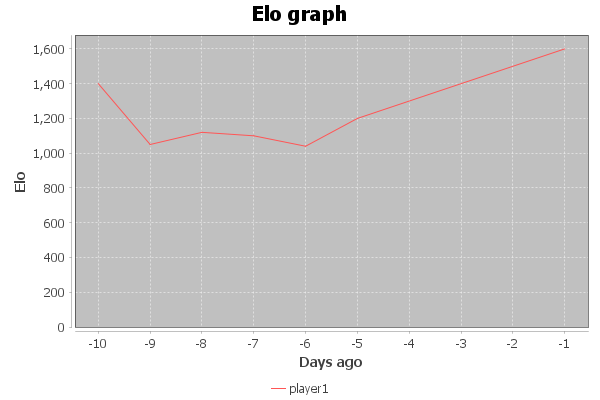
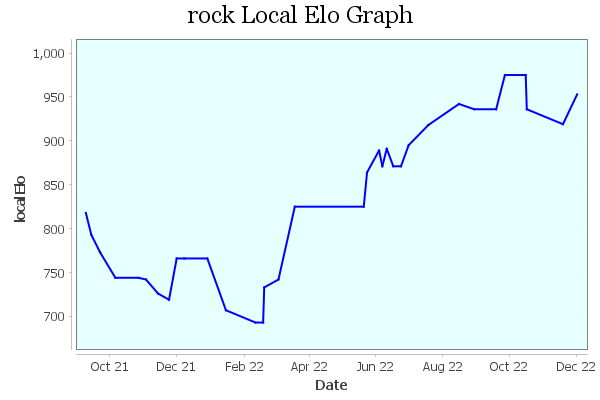
working on player graphs

diff --git a/ELOdatabase/src/main/java/PlayerInfo.java b/ELOdatabase/src/main/java/PlayerInfo.java
@@ -1,59 +1,139 @@
 import java.awt.Dimension;
+import java.awt.Font;
 import java.awt.Graphics2D;
 import java.awt.image.BufferedImage;
-import org.jfree.chart.JFreeChart; 
+import org.jfree.chart.JFreeChart;
+import org.jfree.chart.axis.DateAxis;
+import org.jfree.chart.axis.ValueAxis;
 import org.jfree.chart.ChartFactory;
 import org.jfree.chart.ChartPanel;
 import org.jfree.chart.ChartUtils;
+
 import org.jfree.chart.plot.PlotOrientation;
+import org.jfree.chart.plot.XYPlot;
+import org.jfree.chart.ui.RectangleInsets;
 import org.jfree.data.category.DefaultCategoryDataset;
 import org.jfree.data.xy.XYDataset;
 import org.jfree.data.xy.XYSeries;
 import org.jfree.data.xy.XYSeriesCollection;
+import org.jfree.data.time.*;
+import org.jfree.data.time.RegularTimePeriod;
+import org.jfree.data.time.TimeSeries;
+import org.jfree.data.time.TimeSeriesCollection;
 
+import com.google.gson.JsonArray;
+import com.google.gson.JsonElement;
 import com.google.gson.JsonObject;
-
+import java.awt.Color;
+import java.awt.BasicStroke;
 import java.io.File;
 import java.io.FileNotFoundException;
 import java.io.FileOutputStream;
 import java.io.IOException;
 import java.io.OutputStream;
 import java.nio.file.Paths;
+import java.text.DateFormat;
+import java.text.ParseException;
+import java.text.SimpleDateFormat;
+import java.time.Instant;
+import java.time.LocalDate;
+import java.time.ZonedDateTime;
+import java.util.Date;
+import java.util.Locale;
+import java.util.TimeZone;
+
+import javax.imageio.IIOImage;
 import javax.imageio.ImageIO;
+import javax.imageio.ImageTypeSpecifier;
+import javax.imageio.ImageWriter;
+import javax.imageio.metadata.IIOMetadata;
+import javax.imageio.metadata.IIOMetadataNode;
+import javax.imageio.stream.ImageOutputStream;
 public class PlayerInfo {
-    
+    private static DateFormat df = new SimpleDateFormat("yyyy-MM-dd");
+    private static int dpi = 144;
     public static void main(String[] args) {
-        rankGraph("mag");
+        try {
+            rankGraph("rock");
+        } catch (ParseException e) {
+            e.printStackTrace();
+        }
     }
 
     static BufferedImage merger() {
         return null;
     }
 
-    static boolean rankGraph(String player) {
+    static boolean rankGraph(String player) throws ParseException {
         StringBuilder p = new StringBuilder(player);
         JsonObject pJson = PlayerBuilder.getPlayer(p);
 
-        int[][] timesElos = PlayerBuilder.getHistory(pJson);
-        XYSeriesCollection line_chart_dataset = new XYSeriesCollection();
-        XYSeries series = new XYSeries(p);
-        for(int i = 0; i < timesElos[0].length; ++i){
-            series.add(timesElos[0][i], timesElos[1][i]);
+        JsonArray elos = pJson.get("elos").getAsJsonArray();
+		JsonArray times = pJson.get("times").getAsJsonArray();
+        
+        TimeSeries series = new TimeSeries(p.toString());
+        Instant now = ZonedDateTime.now().minusYears(1).toInstant();
+        Date cur;
+        for(int i = 0; i < elos.size(); ++i){
+            cur = df.parse(times.get(i).getAsString());
+            RegularTimePeriod rtp = RegularTimePeriod.createInstance(Day.class, cur, TimeZone.getDefault(), Locale.US);
+            //System.out.println(cur.toInstant().toString());
+            if (true | now.isBefore(cur.toInstant())) {
+                series.addOrUpdate(rtp, elos.get(i).getAsDouble());
+            }
         }
-        line_chart_dataset.addSeries(series);
-        JFreeChart chart = ChartFactory.createXYLineChart(
-            "Elo graph",
-            "Days ago",
-            "Elo",
+        TimeSeriesCollection line_chart_dataset = new TimeSeriesCollection(series);
+        JFreeChart chart = ChartFactory.createTimeSeriesChart(
+            p.toString() + " Local Elo Graph",
+            "Date",
+            "local Elo",
             line_chart_dataset
-            );
+        );
+        chart.removeLegend();
+        chart.setBackgroundPaint(Color.white);
+        ValueAxis yAxis = chart.getXYPlot().getRangeAxis();
+        DateAxis xAxis = (DateAxis) chart.getXYPlot().getDomainAxis(); // get the x-axis
+        xAxis.setDateFormatOverride(new SimpleDateFormat("MMM yy"));
+        double lower = yAxis.getLowerBound();
+        double higher = yAxis.getUpperBound();
+        if (lower > 1000) {
+            yAxis.setRangeWithMargins(1000, higher);
+        } else if (higher < 1000) {
+            yAxis.setRangeWithMargins(lower, 1000);
+        }
+        chart.getTitle().setFont(new Font("Georgia", Font.ROMAN_BASELINE, 24));
+        XYPlot plot = chart.getXYPlot();
+        plot.setBackgroundPaint(new Color(230, 255, 255));
+        plot.setDomainGridlinePaint(Color.white);
+        plot.setRangeGridlinePaint(Color.white);
+        plot.setAxisOffset(new RectangleInsets(5.0, 5.0, 5.0, 5.0));
 
+        // Customize the renderer of the plot
+        plot.getRenderer().setSeriesPaint(0, Color.blue);
+        plot.getRenderer().setSeriesStroke(0, new BasicStroke(2.0f));
         try {
-            OutputStream out = new FileOutputStream("playergraph.png");
             int width = 600; 
             int height = 400;
-            ChartUtils.writeChartAsPNG(out, chart, width, height);
-            out.close();
+            
+            BufferedImage image = chart.createBufferedImage(width, height, BufferedImage.TYPE_INT_ARGB, null);
+            ImageWriter writer = ImageIO.getImageWritersByFormatName("png").next();
+            File outputfile = new File("playergraph.png");
+            ImageOutputStream ios = ImageIO.createImageOutputStream(outputfile);
+            writer.setOutput(ios);
+            IIOMetadata metadata = writer.getDefaultImageMetadata(ImageTypeSpecifier.createFromRenderedImage(image), null);
+            IIOMetadataNode physNode = new IIOMetadataNode("javax_imageio_1.0");
+            physNode.setAttribute("dpiWidth", Integer.toString(dpi));
+            physNode.setAttribute("dpiHeight", Integer.toString(dpi));
+            IIOMetadataNode metaNode = new IIOMetadataNode("javax_imageio_1.0");
+            metaNode.appendChild(physNode);
+            metadata.mergeTree("javax_imageio_1.0", metaNode);
+
+            // Write the image with metadata to the output file
+            writer.write(metadata, new IIOImage(image, null, metadata), null);
+
+            // Close the streams
+            ios.close();
+            writer.dispose();
             return true;
         } catch (IOException e) {
             e.printStackTrace();

diff --git a/ELOdatabase/src/main/java/PlayerBuilder.java b/ELOdatabase/src/main/java/PlayerBuilder.java
@@ -521,7 +521,7 @@ public class PlayerBuilder {
 		return 10 * eloOdds;
     }
 
-    public static int[][] getHistory(JsonObject p) {
+    /*public static int[][] getHistory(JsonObject p) {
         JsonArray elos = p.get("elos").getAsJsonArray();
 		JsonArray times = p.get("times").getAsJsonArray();
 		int[][] ans = new int[2][100];
@@ -530,5 +530,5 @@ public class PlayerBuilder {
 			ans[1][i] = times.get(i).getAsInt();
 		}
 		return ans;
-    }
+    }*/
 }

diff --git a/ELOdatabase/src/main/java/CommandManager.java b/ELOdatabase/src/main/java/CommandManager.java
@@ -200,7 +200,6 @@ public class CommandManager extends ListenerAdapter{
 			event.reply("Choose a season")
                 .addActionRow(select.build())
                 .queue();
-			
 		}
 
 		if(command.equalsIgnoreCase("playergraph")) {
